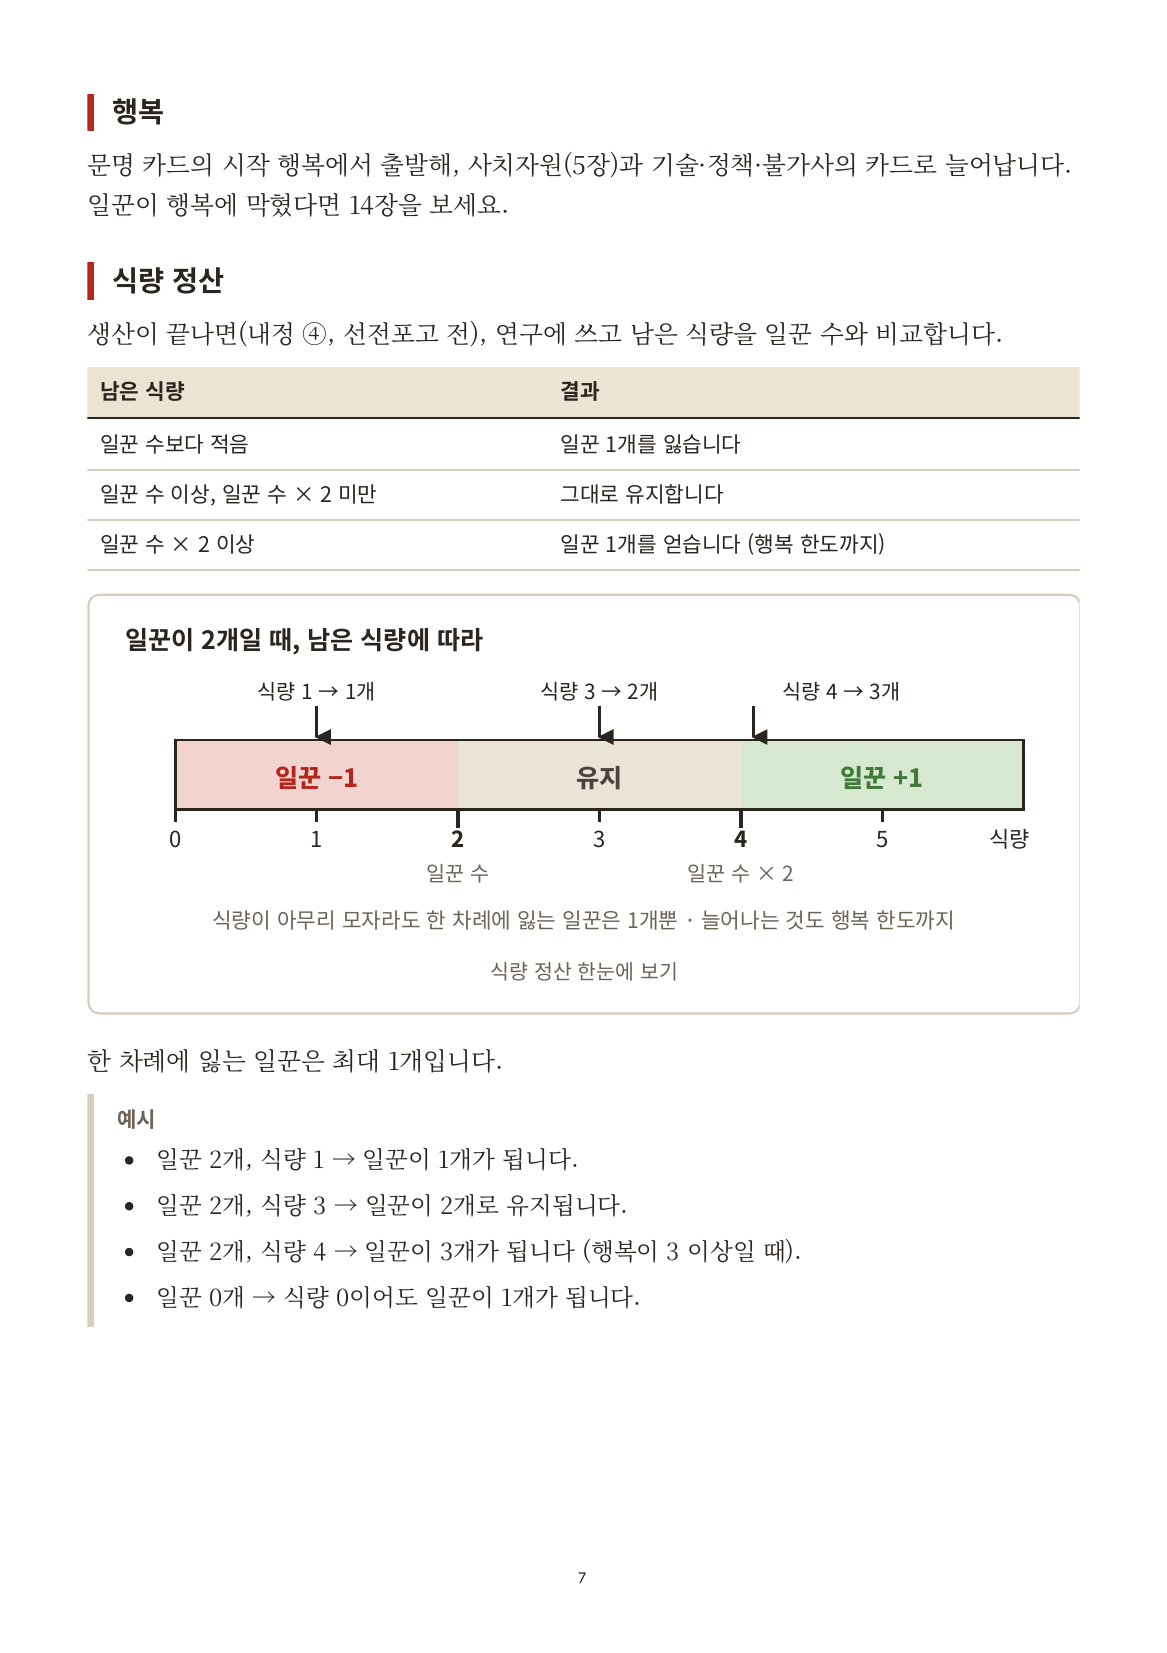
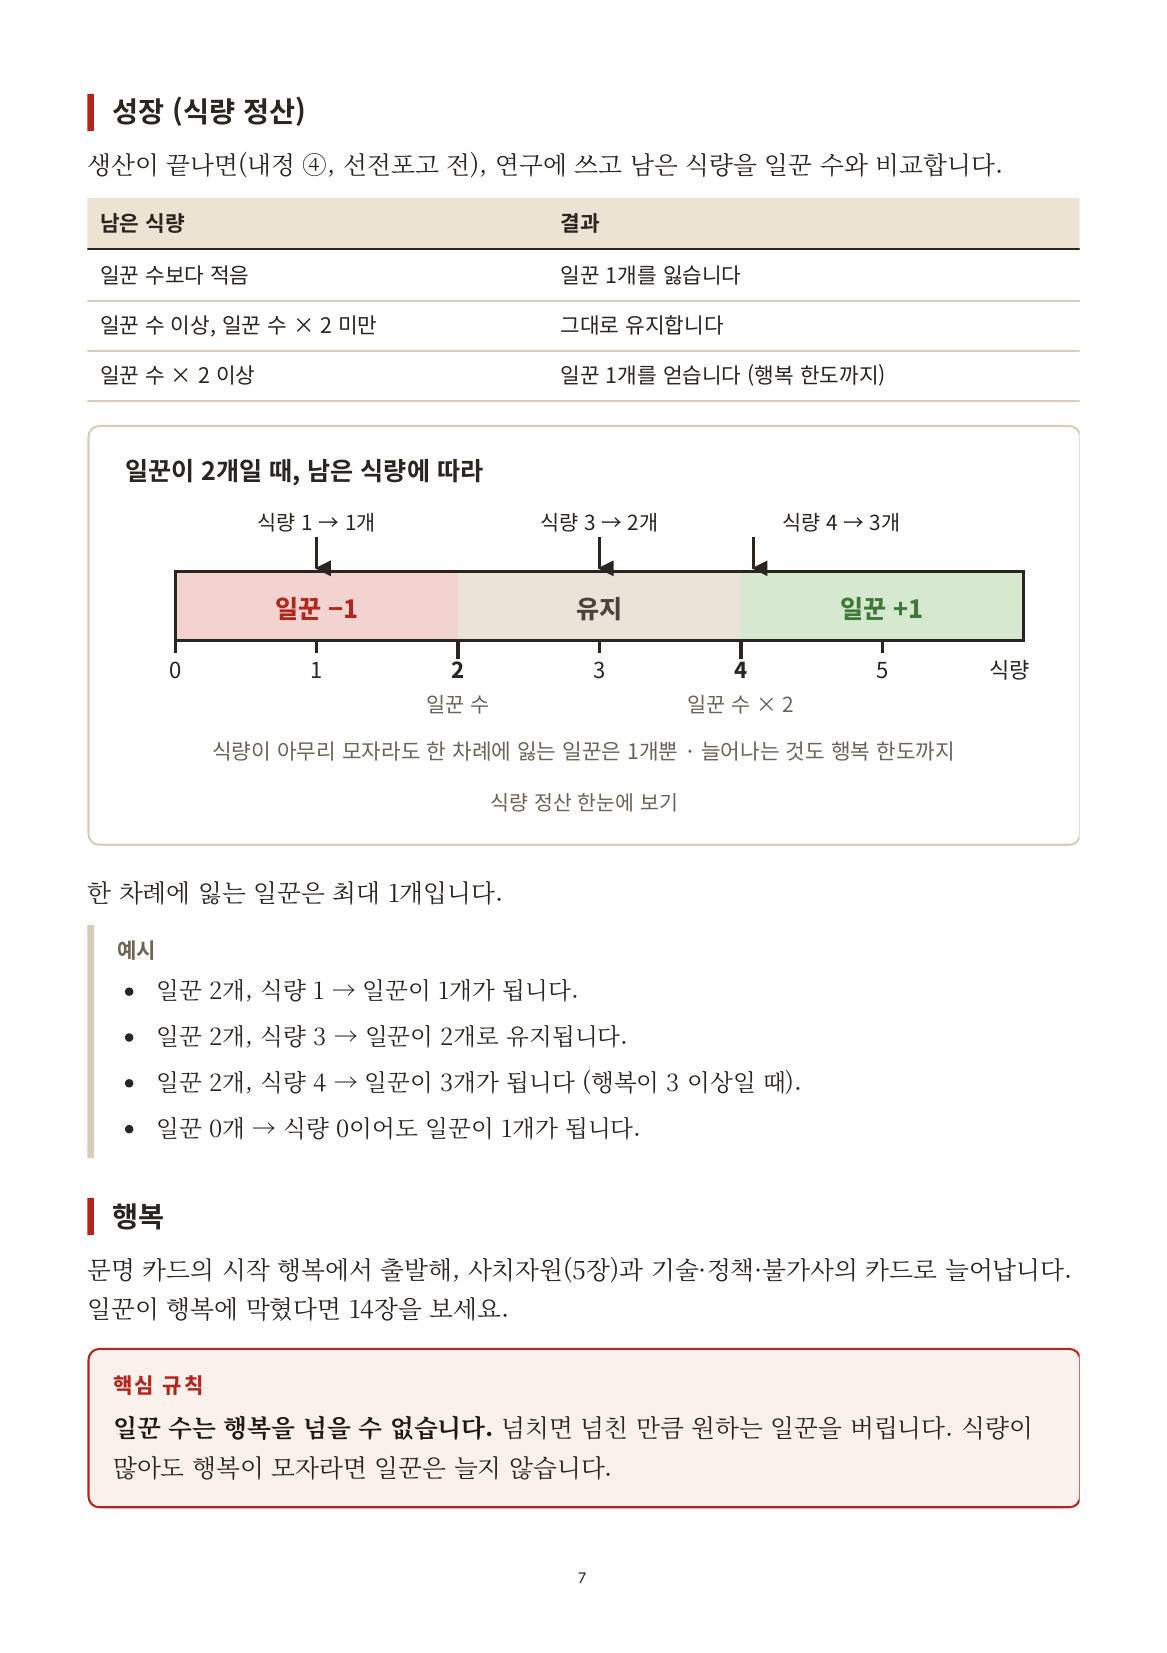
규칙서 6장 재편: '일꾼, 성장, 행복' 순서 (일꾼 → 성장(식량 정산) → 행복·핵심 규칙)
Claude-Session: https://claude.ai/code/session_01LEwiRiXRJPjckZxHM1aEbm

diff --git a/docs/rulebook/source/part1.html b/docs/rulebook/source/part1.html
@@ -192,14 +192,13 @@
 
 <!-- 6장 -->
 <section class="ch" id="ch6">
-  <header class="chhead"><span class="num">6</span><h1>일꾼, 행복, 성장</h1></header>
-  <p class="lead">일꾼은 식량으로 늘어나고, 행복이 그 상한을 정합니다.</p>
-  <div class="key"><span class="tag">핵심 규칙</span><b>일꾼 수는 행복을 넘을 수 없습니다.</b> 넘치면 넘친 만큼 원하는 일꾼을 버립니다. 식량이 많아도 행복이 모자라면 일꾼은 늘지 않습니다.</div>
+  <header class="chhead"><span class="num">6</span><h1>일꾼, 성장, 행복</h1></header>
+  <p class="lead">일꾼은 타일에 올려 산출을 만들고, 식량으로 늘어나며, 행복이 그 상한을 정합니다.</p>
 
-  <h3>행복</h3>
-  <p>문명 카드의 시작 행복에서 출발해, 사치자원(5장)과 기술·정책·불가사의 카드로 늘어납니다. 일꾼이 행복에 막혔다면 14장을 보세요.</p>
+  <h3>일꾼</h3>
+  <p>일꾼은 타일에 1개씩 올려 그 타일의 산출을 얻습니다 (4장).</p>
 
-  <h3>식량 정산</h3>
+  <h3>성장 (식량 정산)</h3>
   <p style="break-after:avoid">생산이 끝나면(내정 ④, 선전포고 전), 연구에 쓰고 남은 식량을 일꾼 수와 비교합니다.</p>
   <table>
     <thead><tr><th>남은 식량</th><th>결과</th></tr></thead>
@@ -254,4 +253,8 @@
       <li>일꾼 0개 → 식량 0이어도 일꾼이 1개가 됩니다.</li>
     </ul>
   </div>
+
+  <h3>행복</h3>
+  <p>문명 카드의 시작 행복에서 출발해, 사치자원(5장)과 기술·정책·불가사의 카드로 늘어납니다. 일꾼이 행복에 막혔다면 14장을 보세요.</p>
+  <div class="key"><span class="tag">핵심 규칙</span><b>일꾼 수는 행복을 넘을 수 없습니다.</b> 넘치면 넘친 만큼 원하는 일꾼을 버립니다. 식량이 많아도 행복이 모자라면 일꾼은 늘지 않습니다.</div>
 </section>
